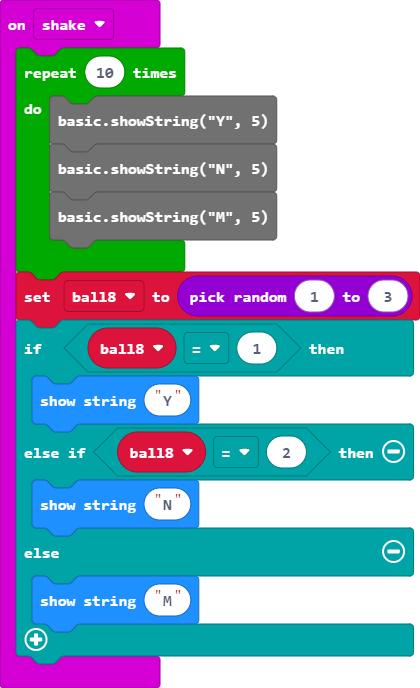
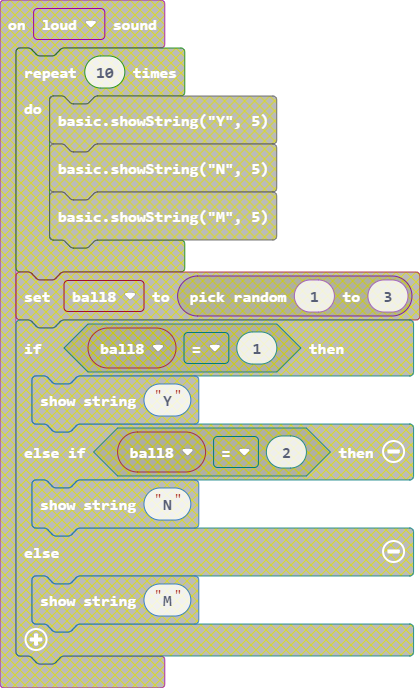
Update main.blocks, main.ts

diff --git a/main.ts b/main.ts
@@ -24,21 +24,6 @@ input.onGesture(Gesture.ScreenDown, function () {
     basic.clearScreen()
     _true = 0
 })
-input.onSound(DetectedSound.Loud, function () {
-    for (let index = 0; index < 10; index++) {
-        basic.showString("Y", 5)
-basic.showString("N", 5)
-basic.showString("M", 5)
-    }
-    ball8 = randint(1, 3)
-    if (ball8 == 1) {
-        basic.showString("Y")
-    } else if (ball8 == 2) {
-        basic.showString("N")
-    } else {
-        basic.showString("M")
-    }
-})
 input.onButtonPressed(Button.AB, function () {
     _true = 1
     while (_true == 1) {
